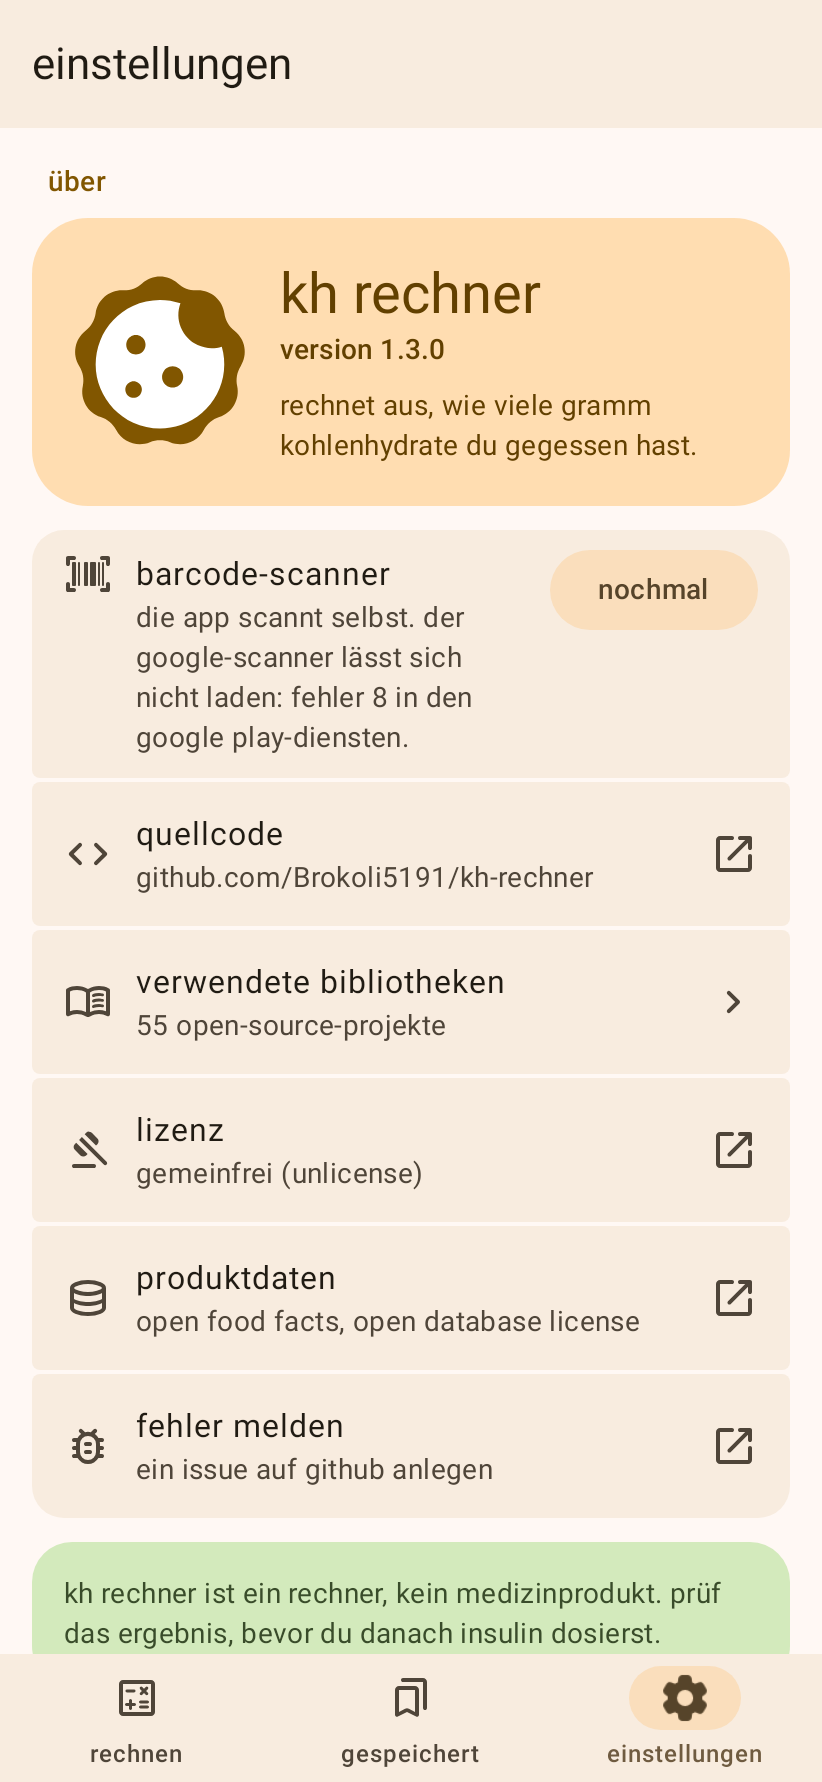
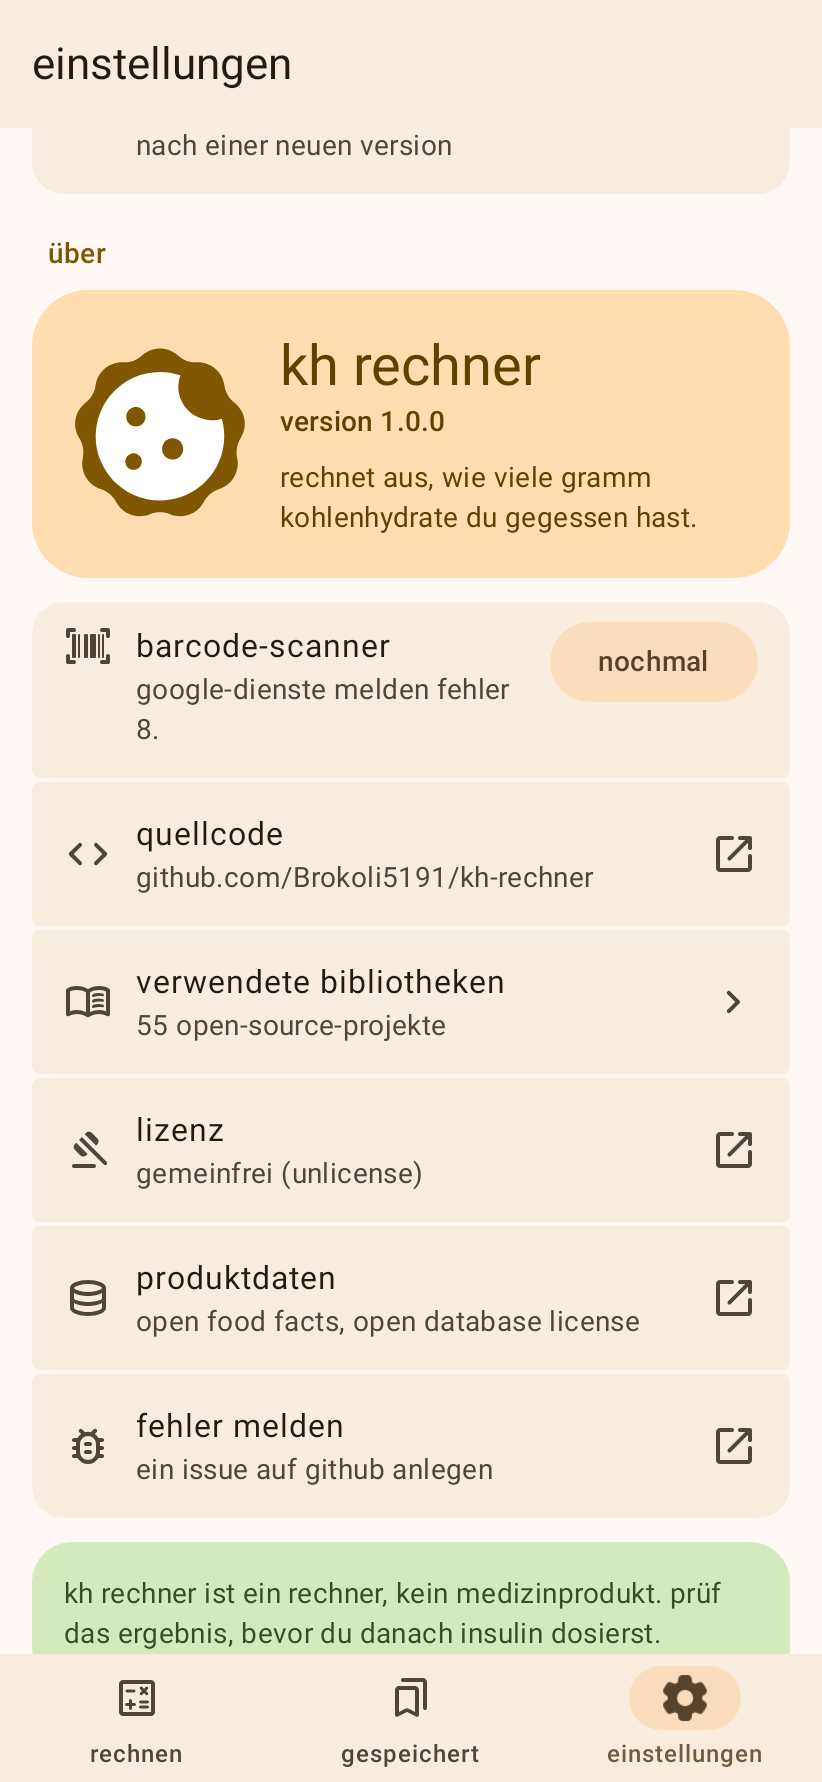
Shorter scanner failure, update indicator that no longer flickers
The about row now shows only why Google's scanner failed to load, in a
few words ("google-dienste antworten nicht."), without repeating that
the app scans by itself.

Looking for updates keeps the indicator for at least a second, since
GitHub usually answers within a fraction of one. A second press within
a minute of the last answer reuses it instead of asking again: GitHub
caches the response for 60 s and allows 60 unauthenticated requests an
hour, so repeated taps learned nothing and could hit the limit.

Claude-Session: https://claude.ai/code/session_01LDEBWu4bzGKkwRLRNC82mk

Changed region(s): [[0.0304, 0.0926, 0.9732, 0.4321], [0.1825, 0.0617, 0.4258, 0.0926], [0.4562, 0.0617, 0.5474, 0.0926]]

diff --git a/app/src/test/kotlin/app/brokoli5191/khrechner/data/UpdateControllerTest.kt b/app/src/test/kotlin/app/brokoli5191/khrechner/data/UpdateControllerTest.kt
@@ -8,12 +8,16 @@ import app.brokoli5191.khrechner.FakeUpdater
 import java.io.File
 import java.time.ZoneId
 import java.time.ZonedDateTime
+import kotlin.time.Duration.Companion.milliseconds
+import kotlin.time.Duration.Companion.seconds
 import kotlinx.coroutines.CompletableDeferred
 import kotlinx.coroutines.ExperimentalCoroutinesApi
 import kotlinx.coroutines.flow.MutableStateFlow
 import kotlinx.coroutines.flow.first
 import kotlinx.coroutines.test.TestScope
 import kotlinx.coroutines.test.UnconfinedTestDispatcher
+import kotlinx.coroutines.test.advanceTimeBy
+import kotlinx.coroutines.test.runCurrent
 import kotlinx.coroutines.test.runTest
 import org.junit.Assert.assertEquals
 import org.junit.Assert.assertTrue
@@ -40,12 +44,19 @@ class UpdateControllerTest {
 
     private fun hours(count: Int) = count * 3_600_000L
 
+    /** Lets the indicator's second run out, and with it everything waiting on it. */
+    private fun TestScope.settle() {
+        advanceTimeBy(2.seconds)
+        runCurrent()
+    }
+
     @Test
     fun `opening the app looks once per calendar day`() = test {
         releases.answer = ReleaseLookup.Found(release("1.3.0"))
         val updates = controller()
         updates.checkIfDue()
         updates.checkIfDue()
+        settle()
         assertEquals(1, releases.calls)
         assertEquals(UpdateStatus.UpToDate(clock), updates.status.value)
 
@@ -55,6 +66,7 @@ class UpdateControllerTest {
         assertEquals(1, releases.calls)
         clock += hours(2)
         updates.checkIfDue()
+        settle()
         assertEquals(2, releases.calls)
     }
 
@@ -68,6 +80,7 @@ class UpdateControllerTest {
         assertEquals(UpdateStatus.Unknown, updates.status.value)
 
         updates.checkNow()
+        settle()
         assertEquals(UpdateStatus.Available(release("1.4.0")), updates.status.value)
     }
 
@@ -75,6 +88,7 @@ class UpdateControllerTest {
     fun `a newer release found once is still there after a restart, and gone once installed`() = test {
         releases.answer = ReleaseLookup.Found(release("1.4.0"))
         controller().checkIfDue()
+        settle()
         assertEquals(UpdateStatus.Available(release("1.4.0")), controller().status.value)
 
         // The same record read by the updated app: nothing newer than itself.
@@ -86,11 +100,14 @@ class UpdateControllerTest {
         releases.answer = ReleaseLookup.Failed(UpdateFailure.NO_CONNECTION)
         val updates = controller()
         updates.checkIfDue()
+        settle()
         assertEquals(UpdateStatus.Unknown, updates.status.value)
         updates.checkIfDue()
+        settle()
         assertEquals(2, releases.calls)
 
         updates.checkNow()
+        settle()
         assertEquals(UpdateStatus.Failed(UpdateFailure.NO_CONNECTION, null), updates.status.value)
     }
 
@@ -101,6 +118,7 @@ class UpdateControllerTest {
         updater.gate = gate
         val updates = controller()
         updates.checkNow()
+        settle()
         updates.install()
         assertEquals(UpdateStatus.Downloading(release("1.4.0"), 40), updates.status.value)
 
@@ -123,6 +141,7 @@ class UpdateControllerTest {
         releases.answer = ReleaseLookup.Found(release("1.4.0"))
         val updates = controller()
         updates.checkNow()
+        settle()
         updater.downloadResult = DownloadResult.Failed(UpdateFailure.WRONG_SIGNATURE)
         updates.install()
         assertEquals(UpdateStatus.Failed(UpdateFailure.WRONG_SIGNATURE, release("1.4.0")), updates.status.value)
@@ -133,6 +152,44 @@ class UpdateControllerTest {
         updates.onInstallResult(UpdateInstallReceiver.resultFor(PackageInstaller.STATUS_FAILURE_STORAGE, null))
         assertEquals(UpdateStatus.Failed(UpdateFailure.NO_STORAGE, release("1.4.0")), updates.status.value)
         assertEquals(2, updater.downloaded.size)
+    }
+
+    @Test
+    fun `the indicator stays a second, however fast github answers`() = test {
+        releases.answer = ReleaseLookup.Found(release("1.3.0"))
+        val updates = controller()
+        updates.checkNow()
+        assertEquals(1, releases.calls)
+        advanceTimeBy(999.milliseconds)
+        runCurrent()
+        assertEquals(UpdateStatus.Checking, updates.status.value)
+        advanceTimeBy(1.milliseconds)
+        runCurrent()
+        assertEquals(UpdateStatus.UpToDate(clock), updates.status.value)
+    }
+
+    @Test
+    fun `pressing again within a minute shows the same answer without asking github`() = test {
+        releases.answer = ReleaseLookup.Found(release("1.3.0"))
+        val updates = controller()
+        updates.checkNow()
+        settle()
+        val checked = clock
+
+        // GitHub would still hand out its cached answer, whatever was published meanwhile.
+        releases.answer = ReleaseLookup.Found(release("1.4.0"))
+        clock += 59_000
+        updates.checkNow()
+        assertEquals(UpdateStatus.Checking, updates.status.value)
+        settle()
+        assertEquals(1, releases.calls)
+        assertEquals(UpdateStatus.UpToDate(checked), updates.status.value)
+
+        clock += 1_000
+        updates.checkNow()
+        settle()
+        assertEquals(2, releases.calls)
+        assertEquals(UpdateStatus.Available(release("1.4.0")), updates.status.value)
     }
 
     @Test

diff --git a/app/src/test/kotlin/app/brokoli5191/khrechner/ui/AppFlowTest.kt b/app/src/test/kotlin/app/brokoli5191/khrechner/ui/AppFlowTest.kt
@@ -3,6 +3,7 @@ package app.brokoli5191.khrechner.ui
 import android.Manifest
 import android.app.Application
 import android.content.pm.PackageManager
+import android.os.Looper
 import android.provider.Settings as SystemSettings
 import androidx.activity.ComponentActivity
 import androidx.compose.runtime.getValue
@@ -42,6 +43,7 @@ import app.brokoli5191.khrechner.data.Settings
 import app.brokoli5191.khrechner.data.ThemeMode
 import app.brokoli5191.khrechner.data.UpdateFailure
 import app.brokoli5191.khrechner.ui.theme.KhRechnerTheme
+import java.time.Duration
 import kotlinx.coroutines.CompletableDeferred
 import kotlinx.coroutines.flow.first
 import org.junit.Assert.assertEquals
@@ -84,6 +86,9 @@ class AppFlowTest {
     private fun awaitText(text: String) {
         compose.waitUntil(5_000) { compose.onAllNodes(hasText(text, substring = true)).fetchSemanticsNodes().isNotEmpty() }
     }
+
+    /** Lets the update indicator's second run out; Robolectric's clock only moves when told to. */
+    private fun passIndicator() = shadowOf(Looper.getMainLooper()).idleFor(Duration.ofMillis(1_100))
 
     private fun grantCamera() = shadowOf(app as Application).grantPermissions(Manifest.permission.CAMERA)
 
@@ -417,13 +422,16 @@ class AppFlowTest {
         awaitText("die app scannt selbst. der google-scanner ist noch nicht geladen.")
 
         compose.onNodeWithText("laden").performClick()
-        // One sentence: that it failed and why. No status text, no version, no stack trace.
-        awaitText("die app scannt selbst. der google-scanner lässt sich nicht laden: fehler 8 in den google play-diensten.")
+        // Only the reason: no status text, no version, no stack trace, no repeat of what still works.
+        awaitText("google-dienste melden fehler 8.")
+        compose.onNodeWithText("google-dienste melden fehler 8.").assertExists()
+        compose.onNode(hasText("die app scannt selbst", substring = true)).assertDoesNotExist()
         compose.onNode(hasText("INTERNAL_ERROR", substring = true)).assertDoesNotExist()
 
-        app.scanner.installUpdates = listOf(InstallUpdate.Failed(InstallFailure.MeteredNetwork))
+        app.scanner.installUpdates = listOf(InstallUpdate.Failed(InstallFailure.NoAnswer))
         compose.onNodeWithText("nochmal").performScrollTo().performClick()
-        awaitText("der google-scanner wird nur über wlan geladen.")
+        awaitText("google-dienste antworten nicht.")
+        compose.onNodeWithText("google-dienste antworten nicht.").assertExists()
 
         app.scanner.installUpdates = listOf(InstallUpdate.Done)
         compose.onNodeWithText("nochmal").performScrollTo().performClick()
@@ -441,19 +449,37 @@ class AppFlowTest {
     )
 
     @Test
+    fun `looking for updates shows the indicator for a second and asks github once a minute at most`() {
+        compose.onNodeWithText("einstellungen").performClick()
+        compose.onNodeWithText("updates").performScrollTo()
+        awaitText("noch nicht gesucht")
+
+        // The answer is there at once, the indicator stays anyway.
+        compose.onNodeWithText("suchen").performScrollTo().performClick()
+        awaitText("suche nach updates …")
+        passIndicator()
+        awaitText("kh rechner ist aktuell")
+        awaitText("heute geprüft")
+        compose.onNodeWithContentDescription("update verfügbar").assertDoesNotExist()
+
+        // Pressed again right away: the same indicator, the same answer, no second request.
+        compose.onNodeWithText("suchen").performScrollTo().performClick()
+        awaitText("suche nach updates …")
+        passIndicator()
+        awaitText("kh rechner ist aktuell")
+        assertEquals(1, app.releases.calls)
+    }
+
+    @Test
     fun `the update section finds a newer version, marks the tab and installs it on request`() {
+        app.releases.answer = ReleaseLookup.Found(newer)
         compose.onNodeWithText("einstellungen").performClick()
         compose.onNodeWithText("updates").performScrollTo()
         awaitText("noch nicht gesucht")
         compose.onNodeWithContentDescription("update verfügbar").assertDoesNotExist()
 
-        // Nothing newer out there.
         compose.onNodeWithText("suchen").performScrollTo().performClick()
-        awaitText("kh rechner ist aktuell")
-        awaitText("heute geprüft")
-
-        app.releases.answer = ReleaseLookup.Found(newer)
-        compose.onNodeWithText("suchen").performScrollTo().performClick()
+        passIndicator()
         awaitText("version 9.1.0 ist da")
         compose.onNodeWithText("was ist neu").assertExists()
         compose.onNodeWithContentDescription("update verfügbar").assertExists()
@@ -481,6 +507,8 @@ class AppFlowTest {
         compose.onNodeWithText("einstellungen").performClick()
         compose.onNodeWithText("updates").performScrollTo()
         compose.onNodeWithText("suchen").performScrollTo().performClick()
+        passIndicator()
+        awaitText("version 9.1.0 ist da")
         compose.onNodeWithText("installieren").performScrollTo().performClick()
         awaitText("das update ist anders signiert als die installierte app.")
 

diff --git a/app/src/main/kotlin/app/brokoli5191/khrechner/data/UpdateController.kt b/app/src/main/kotlin/app/brokoli5191/khrechner/data/UpdateController.kt
@@ -6,9 +6,11 @@ import androidx.datastore.core.DataStore
 import java.io.IOException
 import java.time.Instant
 import java.time.ZoneId
+import kotlin.time.Duration.Companion.seconds
 import kotlinx.coroutines.CoroutineScope
 import kotlinx.coroutines.Job
 import kotlinx.coroutines.channels.Channel
+import kotlinx.coroutines.delay
 import kotlinx.coroutines.flow.Flow
 import kotlinx.coroutines.flow.MutableStateFlow
 import kotlinx.coroutines.flow.StateFlow
@@ -97,7 +99,20 @@ class UpdateController(
         val before = _status.value
         _status.value = UpdateStatus.Checking
         job = scope.launch {
-            when (val lookup = source.latest()) {
+            // GitHub usually answers in a fraction of a second; shown that briefly, the indicator
+            // only flickers.
+            val shown = launch { delay(MINIMUM_CHECKING) }
+            // GitHub caches this answer for a minute, so asking again sooner learns nothing and
+            // only uses up the 60 requests an hour it allows without an account.
+            val recent = store.data.first().takeIf { now() - it.checkedAt in 0 until SAME_ANSWER_MILLIS }
+            if (recent != null) {
+                shown.join()
+                _status.value = statusFor(recent)
+                return@launch
+            }
+            val lookup = source.latest()
+            shown.join()
+            when (lookup) {
                 is ReleaseLookup.Found -> {
                     val newer = lookup.release.takeIf { AppVersion.isNewer(it.version, installedVersion) }
                     val record = UpdateRecord(checkedAt = now(), latest = newer)
@@ -174,5 +189,7 @@ class UpdateController(
 
     private companion object {
         const val TAG = "UpdateController"
+        val MINIMUM_CHECKING = 1.seconds
+        const val SAME_ANSWER_MILLIS = 60_000L
     }
 }

diff --git a/app/src/main/kotlin/app/brokoli5191/khrechner/ui/settings/AboutSection.kt b/app/src/main/kotlin/app/brokoli5191/khrechner/ui/settings/AboutSection.kt
@@ -191,6 +191,8 @@ private fun ScannerRow(scanner: ScannerInfo, index: Int, count: Int, onInstall: 
         !scanner.cameraAvailable -> stringResource(R.string.scanner_status_no_camera)
         status == ScannerStatus.Ready -> stringResource(R.string.scanner_status_ready)
         status == ScannerStatus.Checking -> stringResource(R.string.scanner_status_checking)
+        // A failure is just its reason; the "nochmal" next to it says the rest.
+        status is ScannerStatus.InstallFailed -> status.reason.message()
         else -> listOfNotNull(
             stringResource(R.string.scanner_builtin_active),
             when (status) {
@@ -202,7 +204,7 @@ private fun ScannerRow(scanner: ScannerInfo, index: Int, count: Int, onInstall: 
                     } else {
                         stringResource(R.string.scanner_status_installing_percent, status.percent)
                     }
-                is ScannerStatus.InstallFailed -> status.reason.message()
+                else -> null
             },
         ).joinToString(" ")
     }
@@ -229,7 +231,7 @@ private fun ScannerRow(scanner: ScannerInfo, index: Int, count: Int, onInstall: 
     )
 }
 
-/** Why Google's scanner did not arrive, in one sentence. The details are in the log. */
+/** Why Google's scanner did not arrive, in a few words. The details are in the log. */
 @Composable
 private fun InstallFailure.message(): String = when (this) {
     InstallFailure.MeteredNetwork -> stringResource(R.string.scanner_install_failed_metered)

diff --git a/app/src/test/kotlin/app/brokoli5191/khrechner/ui/ScreenshotTest.kt b/app/src/test/kotlin/app/brokoli5191/khrechner/ui/ScreenshotTest.kt
@@ -2,6 +2,7 @@ package app.brokoli5191.khrechner.ui
 
 import android.Manifest
 import android.app.Application
+import android.os.Looper
 import androidx.compose.foundation.Canvas
 import androidx.compose.foundation.background
 import androidx.compose.runtime.Composable
@@ -47,6 +48,7 @@ import com.github.takahirom.roborazzi.ExperimentalRoborazziApi
 import com.github.takahirom.roborazzi.captureScreenRoboImage
 import com.google.zxing.BarcodeFormat
 import com.google.zxing.MultiFormatWriter
+import java.time.Duration
 import kotlinx.coroutines.CompletableDeferred
 import kotlinx.coroutines.runBlocking
 import org.junit.Rule
@@ -296,6 +298,8 @@ class ScreenshotTest {
         compose.onNodeWithText("einstellungen").performClick()
         compose.onNodeWithText("updates").performScrollTo()
         compose.onNodeWithText("suchen").performScrollTo().performClick()
+        // The update indicator holds for a second; Robolectric's clock only moves when told to.
+        shadowOf(Looper.getMainLooper()).idleFor(Duration.ofMillis(1_100))
         awaitText("version 9.1.0 ist da")
         compose.onNodeWithText("beim öffnen suchen").performScrollTo()
         capture("settings-updates")

diff --git a/docs/BUILDING.md b/docs/BUILDING.md
@@ -72,6 +72,11 @@ The app updates itself from GitHub Releases. When it comes to the front, `Update
 is on. It compares the tag with the installed `versionName`. A newer release shows up under
 einstellungen → updates, with a dot on the tab.
 
+Tapping search asks at once. Within a minute of the last answer it reuses that answer instead,
+because GitHub caches the response for 60 seconds and allows only 60 requests an hour without an
+account. Either way the loading indicator stays for at least a second, so a fast answer does not
+make it flicker.
+
 Nothing is installed until the user taps install. `PackageInstallerUpdater` downloads the APK and
 compares it with the SHA-256 GitHub lists for the asset. It then checks that the file is this
 app, newer than the installed one and signed with the same key, and only then hands it to
